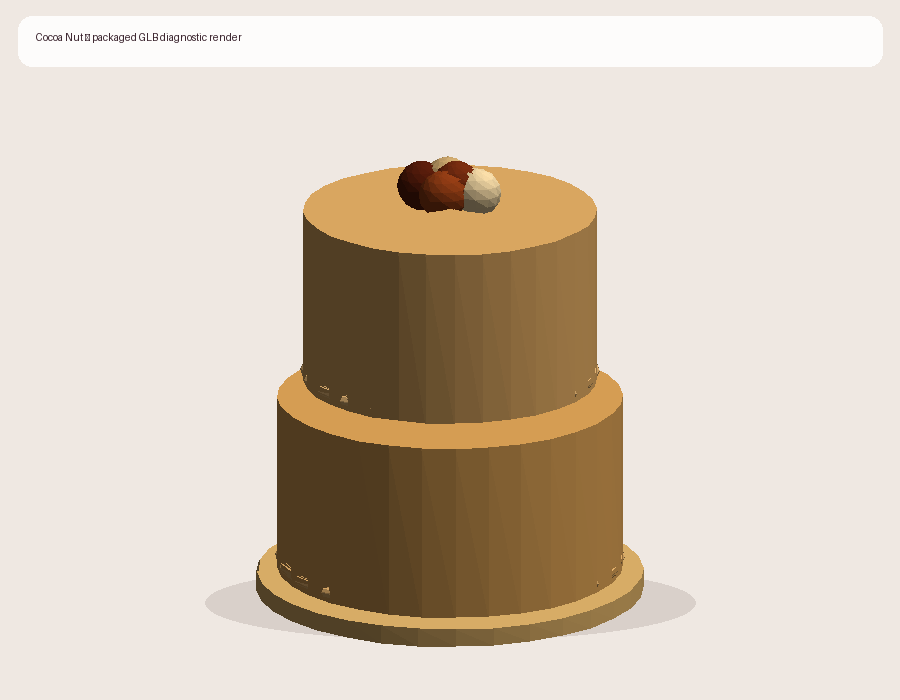
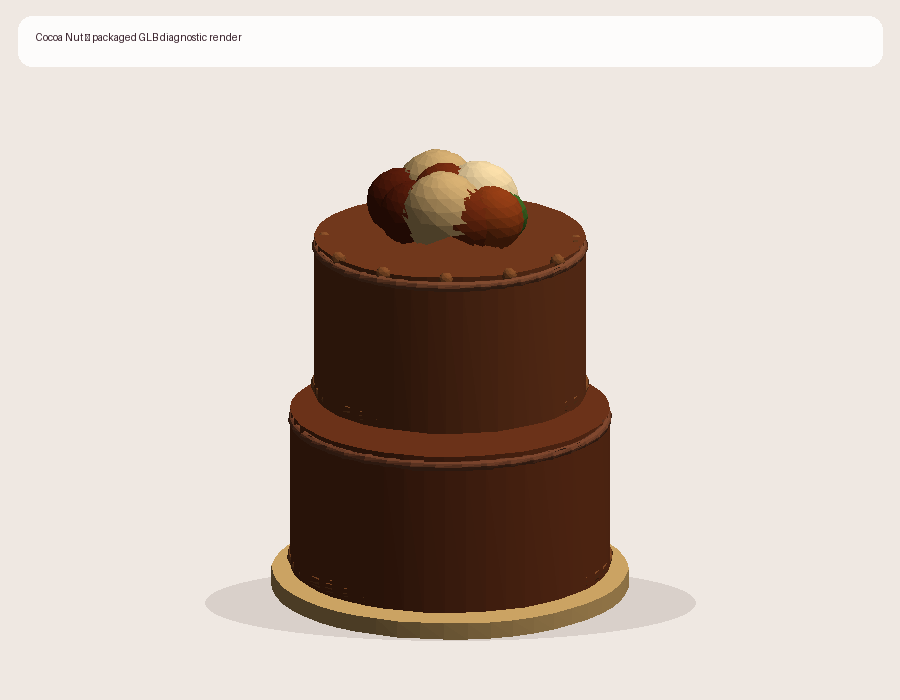
Improve configurable cake visual quality

Changed region(s): [[0.28, 0.21, 0.7156, 0.93]]

diff --git a/bakesmart_ai/app/services/glb_builder.py b/bakesmart_ai/app/services/glb_builder.py
@@ -496,13 +496,20 @@ class ProceduralGlbBuilder:
     ) -> None:
         depth = dimensions.depth_m or dimensions.width_m
         frosting = (0.0, profile.frosting_roughness, 0.0)
+        # Cake palettes are ordered base frosting, secondary/accent, board.
+        # Using the last colour for the whole cake made ivory cakes look brown
+        # and rustic cakes green. Reference profiles may tune the finish, but
+        # the customer's primary palette colour remains authoritative.
+        base_frosting_color = palette[0]
+        secondary_color = palette[1] if len(palette) > 1 else palette[0]
+        board_color = palette[-1]
         board_height = min(0.025, max(0.012, dimensions.height_m * 0.045))
         if cake.shape.value in {"square", "rectangle"}:
             mesh.add_box(
                 (base[0], base[1] + board_height / 2, base[2]),
                 (dimensions.width_m * 1.12, board_height, depth * 1.12),
                 ProceduralGlbBuilder._mix(
-                    palette[-1], (0.84, 0.72, 0.46), 0.52
+                    board_color, (0.84, 0.72, 0.46), 0.52
                 ),
                 CAKE_BOARD,
             )
@@ -512,9 +519,9 @@ class ProceduralGlbBuilder:
                 max(dimensions.width_m, depth) * 0.56,
                 board_height,
                 ProceduralGlbBuilder._mix(
-                    palette[-1], (0.84, 0.72, 0.46), 0.52
+                    board_color, (0.84, 0.72, 0.46), 0.52
                 ),
-                segments=32,
+                segments=48,
                 material=CAKE_BOARD,
             )
 
@@ -535,8 +542,12 @@ class ProceduralGlbBuilder:
                 current_y + tier_height / 2,
                 base[2],
             )
+            # A small alternating tint keeps stacked tiers readable without
+            # replacing the requested frosting colour.
             tier_color = ProceduralGlbBuilder._mix(
-                palette[-1], palette[0], 0.12 * tier
+                base_frosting_color,
+                secondary_color,
+                0.055 if tier % 2 else 0.0,
             )
             if cake.shape.value in {"square", "rectangle"}:
                 mesh.add_box(
@@ -556,20 +567,57 @@ class ProceduralGlbBuilder:
                     radius,
                     tier_height * 0.94,
                     tier_color,
-                    segments=32,
+                    segments=48,
                     material=frosting,
                 )
                 piping_radius = max(
-                    0.003,
+                    0.0035,
                     dimensions.width_m * profile.piping_radius_fraction,
+                )
+                piping_color = ProceduralGlbBuilder._mix(
+                    tier_color, secondary_color, 0.22
                 )
                 mesh.add_torus(
                     (center[0], current_y + tier_height * 0.08, center[2]),
                     max(0.01, radius - piping_radius * 0.45),
                     piping_radius,
-                    ProceduralGlbBuilder._mix(tier_color, palette[0], 0.18),
+                    piping_color,
+                    major_segments=40,
+                    tube_segments=8,
                     material=frosting,
                 )
+                # A fine upper frosting lip removes the hard cylinder edge and
+                # gives each tier a hand-finished silhouette.
+                mesh.add_torus(
+                    (center[0], current_y + tier_height * 0.91, center[2]),
+                    max(0.01, radius - piping_radius * 0.35),
+                    piping_radius * 0.72,
+                    ProceduralGlbBuilder._mix(tier_color, (1.0, 1.0, 1.0), 0.08),
+                    major_segments=40,
+                    tube_segments=8,
+                    material=frosting,
+                )
+                # Small deterministic frosting beads add readable craft detail
+                # while remaining inexpensive enough for the mobile GLB.
+                if tier == cake.tiers - 1:
+                    bead_count = 12
+                    bead_radius = piping_radius * 1.18
+                    bead_ring = max(0.01, radius - bead_radius * 1.25)
+                    bead_y = current_y + tier_height * 0.94
+                    for bead in range(bead_count):
+                        angle = 2 * math.pi * bead / bead_count
+                        mesh.add_sphere(
+                            (
+                                center[0] + math.cos(angle) * bead_ring,
+                                bead_y,
+                                center[2] + math.sin(angle) * bead_ring,
+                            ),
+                            bead_radius,
+                            piping_color,
+                            latitude_segments=6,
+                            longitude_segments=8,
+                            material=frosting,
+                        )
             current_y += tier_height + tier_gap
 
         topper_y = base[1] + dimensions.height_m
@@ -596,38 +644,64 @@ class ProceduralGlbBuilder:
         else:
             accent_colors = (
                 ProceduralGlbBuilder._mix(
-                    palette[0], (1.0, 0.91, 0.74), 0.48
+                    palette[0], (1.0, 0.88, 0.9), 0.34
                 ),
-                (0.92, 0.45, 0.12),
                 ProceduralGlbBuilder._mix(
-                    palette[-1], (1.0, 0.96, 0.88), 0.65
+                    secondary_color, (1.0, 0.96, 0.91), 0.56
                 ),
-                (0.42, 0.62, 0.2),
                 ProceduralGlbBuilder._mix(
-                    palette[0], (1.0, 0.82, 0.72), 0.35
+                    board_color, (0.78, 0.62, 0.34), 0.42
+                ),
+                (0.48, 0.58, 0.34),
+                ProceduralGlbBuilder._mix(
+                    palette[0], (0.94, 0.72, 0.76), 0.38
                 ),
             )
         offsets = (
-            (-1.3, 0.0, 0.15),
-            (-0.45, 0.15, -0.55),
-            (0.35, 0.26, 0.05),
-            (1.15, 0.0, -0.25),
-            (0.2, 0.02, 0.85),
+            (-1.55, 0.0, 0.10),
+            (-0.85, 0.20, -0.72),
+            (-0.15, 0.36, 0.02),
+            (0.62, 0.19, -0.48),
+            (1.38, 0.0, 0.12),
+            (-0.62, 0.02, 0.92),
+            (0.28, 0.18, 0.82),
+            (0.94, 0.0, 0.62),
         )
-        for color, (x_offset, y_offset, z_offset) in zip(
-            accent_colors,
-            offsets,
-            strict=True,
+        topper_colors = tuple(
+            accent_colors[index % len(accent_colors)]
+            for index in range(len(offsets))
+        )
+        for index, (color, (x_offset, y_offset, z_offset)) in enumerate(
+            zip(topper_colors, offsets, strict=True)
         ):
+            radius = cluster_radius * (1.12 if index in {1, 3, 6} else 0.9)
             mesh.add_sphere(
                 (
                     base[0] + x_offset * cluster_radius,
-                    topper_y + cluster_radius * (0.65 + y_offset),
+                    topper_y + cluster_radius * (0.62 + y_offset),
                     base[2] + z_offset * cluster_radius,
                 ),
-                cluster_radius,
+                radius,
                 color,
+                latitude_segments=10,
+                longitude_segments=16,
                 material=frosting,
+            )
+        # Two small foliage accents broaden the arrangement and stop the
+        # topper reading as an isolated row of balls.
+        leaf_color = (0.24, 0.39, 0.13)
+        for x_offset, z_offset in ((-1.55, -0.55), (1.42, -0.42)):
+            mesh.add_sphere(
+                (
+                    base[0] + x_offset * cluster_radius,
+                    topper_y + cluster_radius * 0.55,
+                    base[2] + z_offset * cluster_radius,
+                ),
+                cluster_radius * 0.7,
+                leaf_color,
+                latitude_segments=8,
+                longitude_segments=12,
+                material=FOLIAGE,
             )
 
     @staticmethod

diff --git a/bakesmart_ai/tools/render_configurable_cake_review.py b/bakesmart_ai/tools/render_configurable_cake_review.py
@@ -29,14 +29,14 @@ REPORT_PATH = ROOT / "data" / "cake_references_v1" / "generated_review_manifest.
 
 VARIANTS = (
     ("neutral-classic", "classic-elegant-cake-01", 3, "#FFFDF7;#E7D8BF;#B59B6A"),
-    ("cocoa-nut", "dark-moody-chocolate-cake", 2, "#F2DFC0;#6A3219;#D29B52"),
-    ("rustic-berry", "rustic-boho-fruit-cake", 2, "#F3E7D3;#9C6B4F;#6F7A55"),
+    ("cocoa-nut", "dark-moody-chocolate-cake", 2, "#6A3219;#D29B52;#B8874D"),
+    ("rustic-berry", "rustic-boho-fruit-cake", 2, "#F3E7D3;#9C6B4F;#B59B6A"),
 )
 
 VISUAL_FINDINGS = {
-    "neutral-classic": "Three clear tiers, stable cake board, restrained neutral finish, and a distinct small topper cluster.",
-    "cocoa-nut": "Two clear tiers with warm cocoa frosting, contrasting piping, and a compact cocoa-and-nut topper cluster.",
-    "rustic-berry": "Two clear tiers with an earthy rustic finish, contrasting board and piping, and a readable berry-and-chocolate cluster.",
+    "neutral-classic": "Three clear ivory tiers, softened frosting edges, stable cake board, piped upper detail, and a proportionate floral topper cluster.",
+    "cocoa-nut": "Two clear cocoa tiers with warm frosting, contrasting double-edge piping, and a proportionate cocoa-and-nut topper cluster.",
+    "rustic-berry": "Two clear cream tiers with warm rustic accents, double-edge piping, and a readable berry-and-chocolate topper arrangement.",
 }
 
 

diff --git a/bakesmart_ai/tests/test_cake_references.py b/bakesmart_ai/tests/test_cake_references.py
@@ -50,3 +50,10 @@ def test_reference_profile_selection_is_deterministic_and_style_aware():
     assert chocolate.source_id == "ph-carrot-cake"
     assert classic.source_id == "bakesmart-authored-neutral"
     assert unknown == cake_reference_library.default
+
+
+def test_configurable_profiles_use_readable_piping_and_toppers():
+    """Prevent the tiny decoration regression found during visual QA."""
+    for profile in cake_reference_library.profiles:
+        assert profile.piping_radius_fraction >= 0.019
+        assert profile.topper_cluster_radius_fraction >= 0.11
